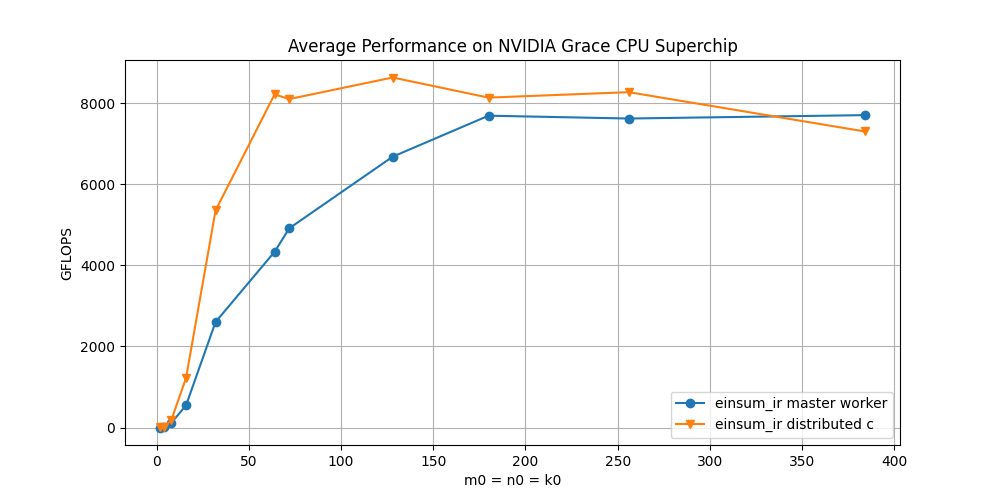
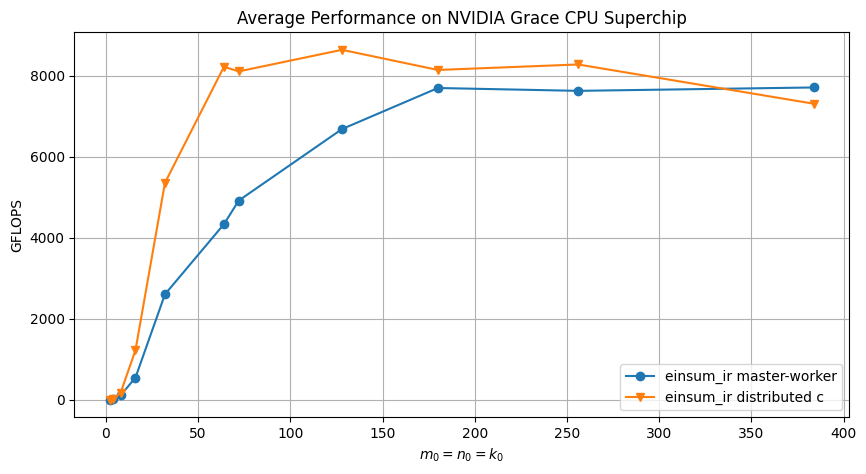
added results and future work

diff --git a/Bachelor_Arbeit/sections/discussion.tex b/Bachelor_Arbeit/sections/discussion.tex
@@ -1,8 +1,48 @@
-\section{Discussion}
+\section{Evaluation}
+
+\subsection{Experimental Setup}
+
+\textbf{Implementation of algorithms.}
+The algorithms were implemented in C++ code.
+It is built on top of \texttt{einsum\_ir} for the algorithm and uses \texttt{torch} for the test setups.
+The contractions are hard-coded in the current implementation.
+
+\textbf{Platform.}
+The algorithms were tested on a server with an Nvidia Grace CPU Superchip in the Uni Jena and on an AWS g8c.metal-48xl Graviton instance.
+All programs were compiled and executed with \texttt{g++} and \texttt{MPICH}.
+
+\textbf{Measurements.}
+All measurements show the average result of 10 contractions for each size.
+I used Python Matplotlib\cite{matplotlib} to visualize the results.
+
+
+\subsection{Distributed einsum\_ir Performance}
 
 \begin{figure}[ht]
-  \centering{\includegraphics[width=0.95\textwidth]{gflops_grace.png}
-  \includegraphics[width=0.95\textwidth]{gflops_g8c.png}
+  \centering{\includegraphics[width=1\textwidth]{gflops_grace_master_worker.png}
+  }
+  \caption{
+    Performance of \texttt{einsum\_ir} distributed c algorithm and the master worker algorithm on a dual socket NVIDIA Grace CPU Superchip.
+    The contraction is $c_0m_0k_0k_1m_1, c_0n_0k_0n_0n_1 \rightarrow c_0m_0n_0n_1m_1$ with $|c_0|=2$, $|m_0|=|n_0|=|k_0|$ and $|m_1|=|n_1|=|k_1|=70$.
+    Grace has 72 cores per NUMA domain.
+    }
+  \label{fig:master_worker_perf}
+\end{figure}
+
+First we compare the performance of the master-worker algorithm with the distributed c algorithm.
+We evaluate these algorithms on the einsum expression $c_0m_0k_0k_1m_1, c_0n_0k_0n_0n_1 \rightarrow c_0m_0n_0n_1m_1$.
+Figure \ref{fig:master_worker_perf} shows, that the distributed c algorithm performs significantly better than the master-worker algorithm especially for small tensors.
+This is expected since the distributed c algorithm performs no communication and thus is not slowed down on small tensors by a low compute intensity which implies being memory bound.
+Its advantages diminish the higher the compute intensity is, as seen from $|m_0|=|n_0|=|k_0|= 180$ and onwards.
+At $|m_0|=|n_0|=|k_0|= 384$ the master-worker algorithm even performs better than the distributed c algorithm.
+I could not test larger sizes as the messages got to big for MPI, which uses a 32-bit signed integer for the element count and due to time constraints I could not rewrite the methods to send multiple smaller messages instead.
+The overall result still shows the greater potential in a distributed algorithm, as it can scale easier to more nodes and performs better on most sizes, at least those I could test.
+It also places fewer restrictions on the contraction itself as the c dimensions do not have to be the outermost dimension of all tensors.
+
+
+\begin{figure}[ht]
+  \centering{\includegraphics[width=1\textwidth]{gflops_grace.png}
+  \includegraphics[width=1\textwidth]{gflops_g8c.png}
   }
   \caption{
     Performance of \texttt{einsum\_ir} on a dual socket NVIDIA Grace CPU Superchip and on a dual socket g8c.metal-48xl Graviton AWS instance.
@@ -12,14 +52,19 @@
   \label{fig:einsum_ir_perf}
 \end{figure}
 
-\begin{figure}[ht]
-  \centering{\includegraphics[width=0.95\textwidth]{gflops_grace_master_worker.png}
-  }
-  \caption{
-    Performance of \texttt{einsum\_ir} distributed c algorithm and the master worker algorithm on a dual socket NVIDIA Grace CPU Superchip.
-    The contraction is $c_0m_0k_0k_1m_1, c_0n_0k_0n_0n_1 \rightarrow c_0m_0n_0n_1m_1$ with $|c_0|=2$, $|m_0|=|n_0|=|k_0|$ and $|m_1|=|n_1|=|k_1|=70$.
-    Grace has 72 cores per NUMA domain.
-    }
-  \label{fig:master_worker_perf}
-\end{figure}
+Next we should compare the more general distributed algorithms against the base implementation.
+For that we will look at the results in Figure \ref{fig:einsum_ir_perf}.
+For tensors larger than $|m_0|=|n_0|=|k_0|=128$ we see significant performance improvements of the new distributed memory algorithms over the base shared memory implementation on both Grace and Graviton, except for $|m_0|=|n_0|=|k_0|=384$ on Grace where \texttt{einsum\_ir} matches the distributed performance.
+We also note that for small tensors the distribution harms the performance, which suggests that small enough tensors should be locally contracted on only one process and then the results get distributed.
+We also observe that in general the distributed c algorithm performs significantly better than both the distributed m and n and the distributed k algorithm, which are quite close in performance to each other with the distributed k one being a bit worse.
+This is expected since the distributed c algorithm is the only one of the three algorithms to not have any communication happening and thus never having to run idle waiting for new data and no synchronization overheads.
+The k algorithm is likely slightly slower than the m and n one, since it has double the amount of steps and with that also double the amount of synchronization happening.
+
+Another thing we should specifically note on Grace is that the second socket performs about 5\% worse than first socket.
+I am not sure why this is happening, but I should also note that in an earlier measurement all algorithms performed significantly worse on Grace.
+The difference between those first measurements and the final ones were mainly length.
+The first measurements comprised 100 runs for each contraction for all sizes $|m_0|=|n_0|=|k_0|=2,4,...,128$, which made the test runs significantly longer, taking multiple hours each.
+One hypothesis for the worse performance would be bad cooling on specifically Grace's second socket.
+The inclusion of the AWS Graviton instance should show that the algorithms perform well and that the bad initial performance on the Grace server was an outlier.
+
 

diff --git a/Bachelor_Arbeit/sections/futureWork.tex b/Bachelor_Arbeit/sections/futureWork.tex
@@ -1,0 +1,9 @@
+\section{Future Work}
+
+To make this thesis' result impactful enough to include into \texttt{einsum\_ir} there is still work to do.
+First would be rewriting \texttt{einsum\_ir}'s binary contraction implementation to accept strided tensors, so many of the limitation on the distributed dimensions vanish.
+When this is done there would need to be development work into finding an algorithm of heuristically decide when to distribute computations and when to keep them local, likely depending on the tensor sizes.
+There also needs to be an algorithm to decide which dimensions are best to distribute in any given einsum expression.
+An easy version would be to always distribute the outermost dimension of the output and pull those dimensions to the outermost position in the input tensors.
+This would also omit the distributed k algorithm which showed the worst performance in the examples, since the k dimension would never be the outermost dimension in the output tensor.
+Finally, this algorithm and the algorithms to decide when and how to distribute the tensors would need to be implemented into the regular einsum evaluation of \texttt{einsum\_ir}, most likely as an optional component.

diff --git a/Bachelor_Arbeit/data/visualize_10.py b/Bachelor_Arbeit/data/visualize_10.py
@@ -49,7 +49,7 @@ with open(filename, "r") as f:
 plt.figure(figsize=(10, 5))
 plt.plot(size_1_arr, gflops_arr, 'r-+', label="Median einsum_ir")
 plt.plot(size_1_arr, gflops_mpi_arr, 'b-+', label="Median einsum_ir_mpi")
-plt.xlabel("m0 = n0 = k0")
+plt.xlabel("m_0 = n_0 = k_0")
 plt.ylabel("GFLOPS")
 plt.legend()
 plt.title(titleGflops)
@@ -59,7 +59,7 @@ plt.figure(figsize=(10, 5))
 plt.plot(size_1_arr, speedup_arr, "b-+" ,label="Median Speedup")
 plt.axhline(y=1, color='red', linestyle='--', label="einsum_ir")
 plt.axhline(y=2, color='black', linestyle='--', label="maximum Speedup")
-plt.xlabel("m0 = n0 = k0")
+plt.xlabel("m_0 = n_0 = k_0")
 plt.ylabel("Speedup")
 plt.legend()
 plt.title(titleSpeedup)

diff --git a/Bachelor_Arbeit/data/visualize_mw.py b/Bachelor_Arbeit/data/visualize_mw.py
@@ -39,12 +39,12 @@ with open(dist_mw_comp_arr, "r") as f:
 
 
 plt.figure(figsize=(10, 5))
-plt.plot(size_1_arr, master_worker_arr, '-o', label="einsum_ir master worker")
+plt.plot(size_1_arr, master_worker_arr, '-o', label="einsum_ir master-worker")
 plt.plot(size_1_arr, mw_comp_arr, '-v', label="einsum_ir distributed c")
 plt.grid(axis="both")
 
-plt.xlabel("m0 = n0 = k0")
+plt.xlabel("$m_0 = n_0 = k_0$")
 plt.ylabel("GFLOPS")
 plt.legend()
 plt.title("Average Performance on NVIDIA Grace CPU Superchip")
-plt.savefig("gflops_grace_master_worker.png")
+plt.savefig("gflops_grace_master_worker.png", pad_inches=0.1, bbox_inches='tight')

diff --git a/Bachelor_Arbeit/data/visualize_10_grace.py b/Bachelor_Arbeit/data/visualize_10_grace.py
@@ -51,8 +51,8 @@ plt.plot(size_1_arr, gflops_mpi_m_n, '-*', label="einsum_ir 144 cores distribute
 plt.plot(size_1_arr, gflops_mpi_k, '-P', label="einsum_ir 144 cores distributed k0")
 plt.grid(axis="both")
 
-plt.xlabel("m0 = n0 = k0")
+plt.xlabel("$m_0 = n_0 = k_0$")
 plt.ylabel("GFLOPS")
 plt.legend()
 plt.title("Average Performance on NVIDIA Grace CPU Superchip")
-plt.savefig("gflops_grace.png")
+plt.savefig("gflops_grace.png", pad_inches=0.1, bbox_inches='tight')

diff --git a/Bachelor_Arbeit/data/visualize_10_g8c.py b/Bachelor_Arbeit/data/visualize_10_g8c.py
@@ -50,8 +50,8 @@ plt.plot(size_1_arr, gflops_mpi_m_n, '-*', label="einsum_ir 192 cores distribute
 plt.plot(size_1_arr, gflops_mpi_k, '-P', label="einsum_ir 192 cores distributed k0")
 plt.grid(axis="both")
 
-plt.xlabel("m0 = n0 = k0")
+plt.xlabel("$m_0 = n_0 = k_0$")
 plt.ylabel("GFLOPS")
 plt.legend()
 plt.title("Average Performance on AWS c8g.metal-48xl")
-plt.savefig("gflops_g8c.png")
+plt.savefig("gflops_g8c.png", pad_inches=0.1, bbox_inches='tight')

diff --git a/Bachelor_Arbeit/sections/nNodes.tex b/Bachelor_Arbeit/sections/nNodes.tex
@@ -72,7 +72,7 @@ This algorithm is the best case since no communication has to occur and cutting 
     \end{subfigure}
     ~
     \begin{subfigure}[t]{0.25\textwidth}
-        \centering\includegraphics[width=1\textwidth]{ring.pdf}
+        \centering\includegraphics[width=1\textwidth]{ring.png}
         \subcaption{communication ring}
         \label{fig:m_n_algo_b}
     \end{subfigure}

diff --git a/Bachelor_Arbeit/sections/2NodesMasterWorker.tex b/Bachelor_Arbeit/sections/2NodesMasterWorker.tex
@@ -1,6 +1,6 @@
 
 
-\section{Master-Worker-Algorithm for two processes}
+\section{Master-Worker Algorithm for two processes}
 
 \begin{figure}[ht]
   \centering{\includegraphics[width=0.95\textwidth]{gflops_threads.png}}

diff --git a/Bachelor_Arbeit/data/visualize_bench_binary.py b/Bachelor_Arbeit/data/visualize_bench_binary.py
@@ -45,4 +45,4 @@ plt.grid(axis="both")
 
 plt.legend()
 plt.title(titleGflops)
-plt.savefig("gflops.png")
+plt.savefig("gflops_threads.png", pad_inches=0.1, bbox_inches='tight')

diff --git a/Bachelor_Arbeit/thesis_main.tex b/Bachelor_Arbeit/thesis_main.tex
@@ -127,6 +127,8 @@
 
 \input{sections/discussion.tex}
 
+\input{sections/futureWork.tex}
+
 \input{sections/conclusion.tex}
 
 
